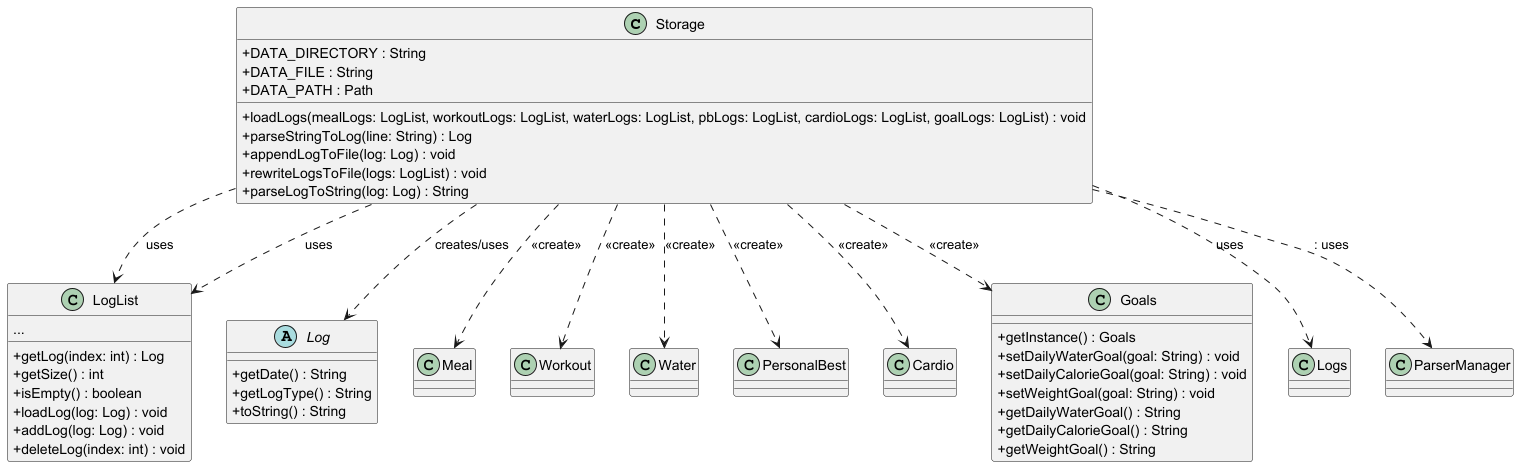
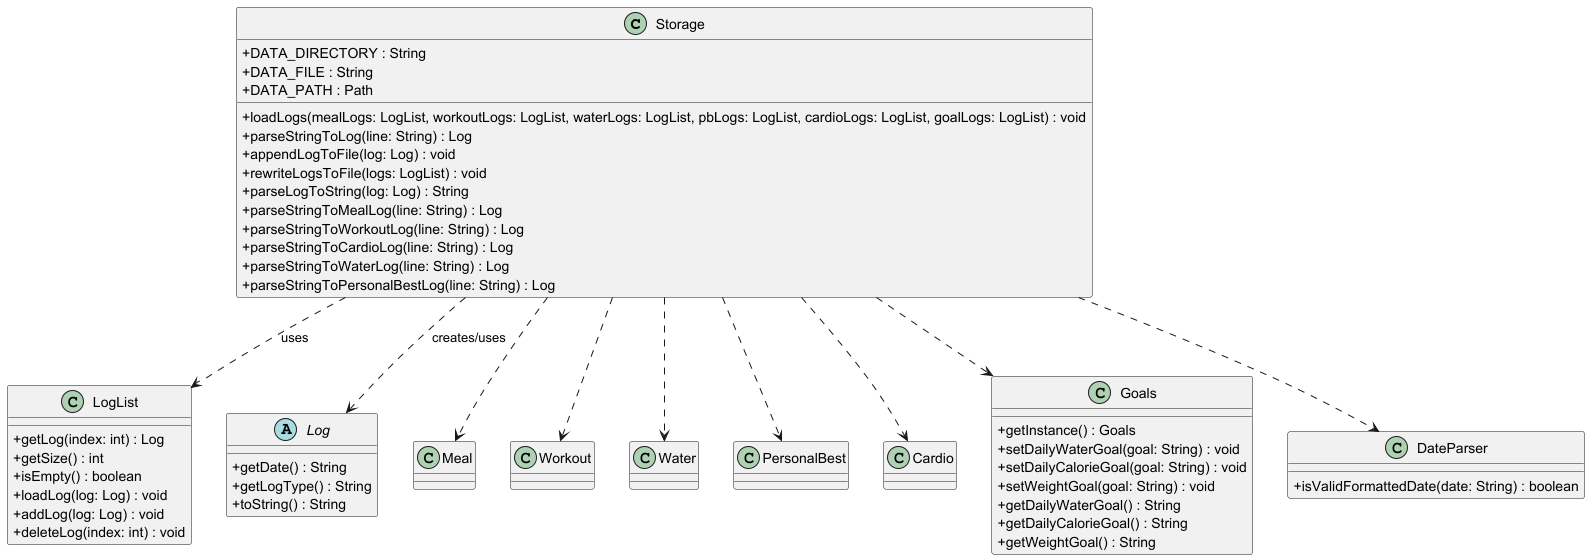
update CD and PPP

diff --git a/src/main/java/seedu/healthbud/parser/addcommandparser/AddWorkoutParser.java b/src/main/java/seedu/healthbud/parser/addcommandparser/AddWorkoutParser.java
@@ -32,7 +32,7 @@ public class AddWorkoutParser {
     //@@author Ahmish15
     public static AddWorkoutCommand parse(LogList workoutLogs, String input)
             throws InvalidWorkoutException, InvalidDateException, InvalidDateFormatException, HealthBudException {
-        //@@author Travissssz
+
         assert input != null : "Input should not be null";
 
         if (!input.contains("/r ") || !input.contains("/s ") || !input.contains("/d ") || !input.contains("/w ")) {

diff --git a/src/main/java/seedu/healthbud/parser/addcommandparser/AddCardioParser.java b/src/main/java/seedu/healthbud/parser/addcommandparser/AddCardioParser.java
@@ -31,7 +31,7 @@ public class AddCardioParser {
      *                                or parameter values are not valid numbers.
      * @throws InvalidDateFormatException if the provided date cannot be parsed.
      */
-    //@@author Travissssz
+
     public static AddCardioCommand parse(LogList cardioLogs, String input)
             throws InvalidCardioException, InvalidDateException, InvalidDateFormatException, HealthBudException {
 

diff --git a/docs/team/Ahmish15.md b/docs/team/Ahmish15.md
@@ -5,12 +5,12 @@ It supports logging of meals, workouts, water intake, cardio sessions, and perso
 intelligent features such as progress status and workout recommendations.
 
 # Summary of Contributions
-Implemented all the Add commands and their respective parser classes. Also implemented the Search and BMI Command and their parser classes.
+Implemented all the Add commands and their respective parser classes. Also implemented the Search and BMI Command and their parser classes. Also implemented a Time parser to make sure the time is in the correct format.
 ## Code contributed
 [Team Dashboard](https://nus-cs2113-ay2425s2.github.io/tp-dashboard/#/widget/?search=&sort=groupTitle&sortWithin=title&timeframe=commit&mergegroup=&groupSelect=groupByRepos&breakdown=true&checkedFileTypes=docs~functional-code~test-code~other&since=2025-02-21&chartGroupIndex=40&chartIndex=0)
 
 ## Enhancements implemented
-Split the AddLogsCommand into 5 different classes to make it more modular and easier to read. Added the SearchCommand and BMICommand classes to allow users to search for their logs and calculate their BMI respectively. I also played a key role in implementing testing for the BMI, search and List commands.
+Split the AddLogsCommand into 5 different classes to make it more modular and easier to read. Added the SearchCommand and BMICommand classes to allow users to search for their logs and calculate their BMI respectively. I also played a key role in implementing testing for the BMI, search and List commands. implemented a Time parser to make sure the time is in the correct format.
 
 ## Contributions to the UG
 
@@ -21,11 +21,28 @@ added the following commands to the user guide: SearchCommand and BMICommand
 BMI Sequence Diagram and Storage Class Diagram. I also talked about the BMI command and Storage class in the DG.
 
 ## Contributions to team-based tasks
-revamped our add commands by splitting them into their logic and parsing respectively. This made it easier to read and understand.
+revamped our add commands by splitting them into their logic and parsing respectively. This made it easier to read and understand. I also actively participated in discussing how we should design other functions in the TP and also gave key inputs on how to structure the entire project to make it more OOP. Incorporated the Time parser into the add commands, and also implemented limits and checks to the various inputs in the TP to make sure all inputs make sense and inputs that do not make sense are caught by exceptions. I also did the test cases for BMI command, List Command and Search Command. After the Mock Pe I helped with fixing many of the bugs that were raised.
 
 ## Review/mentoring contributions
-Links to PRs reviewed, instances of helping team members in other ways.
+- https://github.com/AY2425S2-CS2113-W13-4/tp/pull/225
+- https://github.com/AY2425S2-CS2113-W13-4/tp/pull/224
+- https://github.com/AY2425S2-CS2113-W13-4/tp/pull/222
+- https://github.com/AY2425S2-CS2113-W13-4/tp/pull/138
+- https://github.com/AY2425S2-CS2113-W13-4/tp/pull/135
+- https://github.com/AY2425S2-CS2113-W13-4/tp/pull/133
+- https://github.com/AY2425S2-CS2113-W13-4/tp/pull/132
+- https://github.com/AY2425S2-CS2113-W13-4/tp/pull/131
+- https://github.com/AY2425S2-CS2113-W13-4/tp/pull/130
+- https://github.com/AY2425S2-CS2113-W13-4/tp/pull/104
+- https://github.com/AY2425S2-CS2113-W13-4/tp/pull/87
+- https://github.com/AY2425S2-CS2113-W13-4/tp/pull/76
+- https://github.com/AY2425S2-CS2113-W13-4/tp/pull/75
+- https://github.com/AY2425S2-CS2113-W13-4/tp/pull/69
+- https://github.com/AY2425S2-CS2113-W13-4/tp/pull/67
+- https://github.com/AY2425S2-CS2113-W13-4/tp/pull/65
+- https://github.com/AY2425S2-CS2113-W13-4/tp/pull/55
 
 ## Contributions beyond the project team:
-Evidence of helping others e.g. responses you posted in our forum, bugs you reported in other team's products,
-Evidence of technical leadership e.g. sharing useful information in the forum
+
+Reviewed other teams Developer guide and gave them input on how to make it better.
+https://github.com/nus-cs2113-AY2425S2/tp/pull/22/files/b767c44f47a64d590587c55ed2c14c0a9d5578f3

diff --git a/docs/team/jasonlobo21.md b/docs/team/jasonlobo21.md
@@ -66,7 +66,6 @@ Links to PRs reviewed, instances of helping team members in other ways.
 - https://github.com/AY2425S2-CS2113-W13-4/tp/pull/29
 - https://github.com/AY2425S2-CS2113-W13-4/tp/pull/22
 - https://github.com/AY2425S2-CS2113-W13-4/tp/pull/4
-- 
 
 
 ## Contributions beyond the project team:
